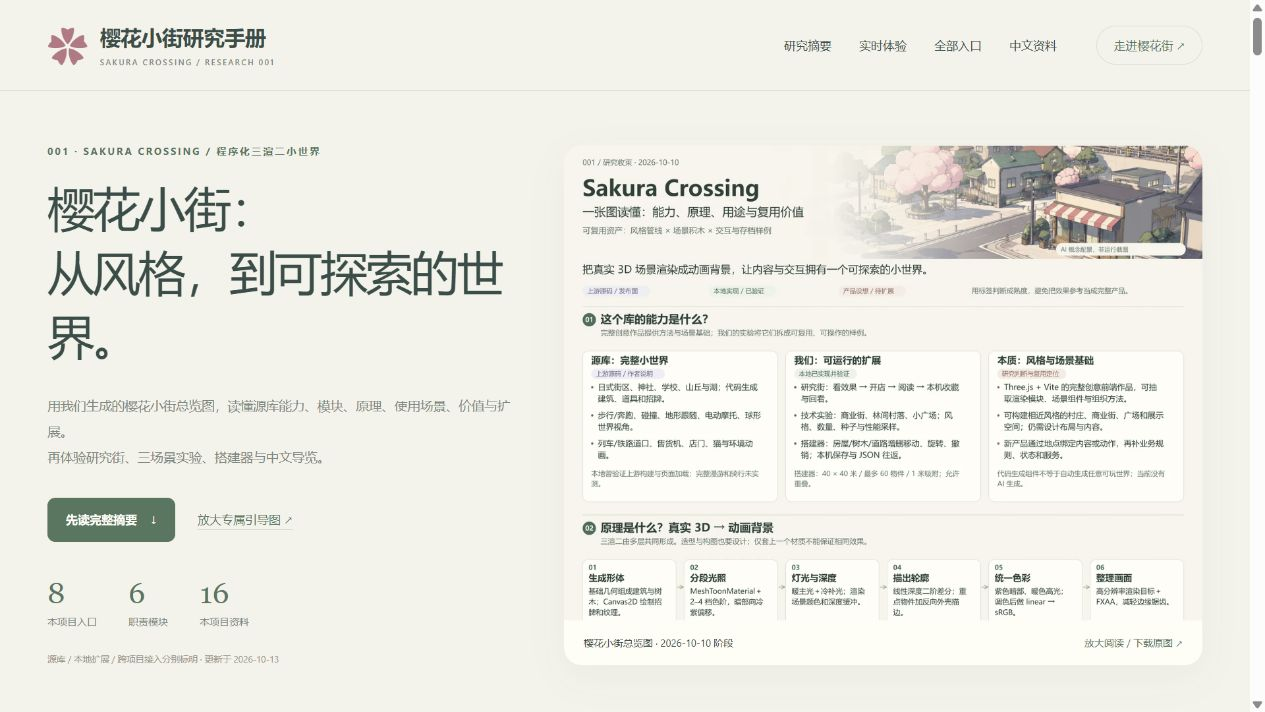
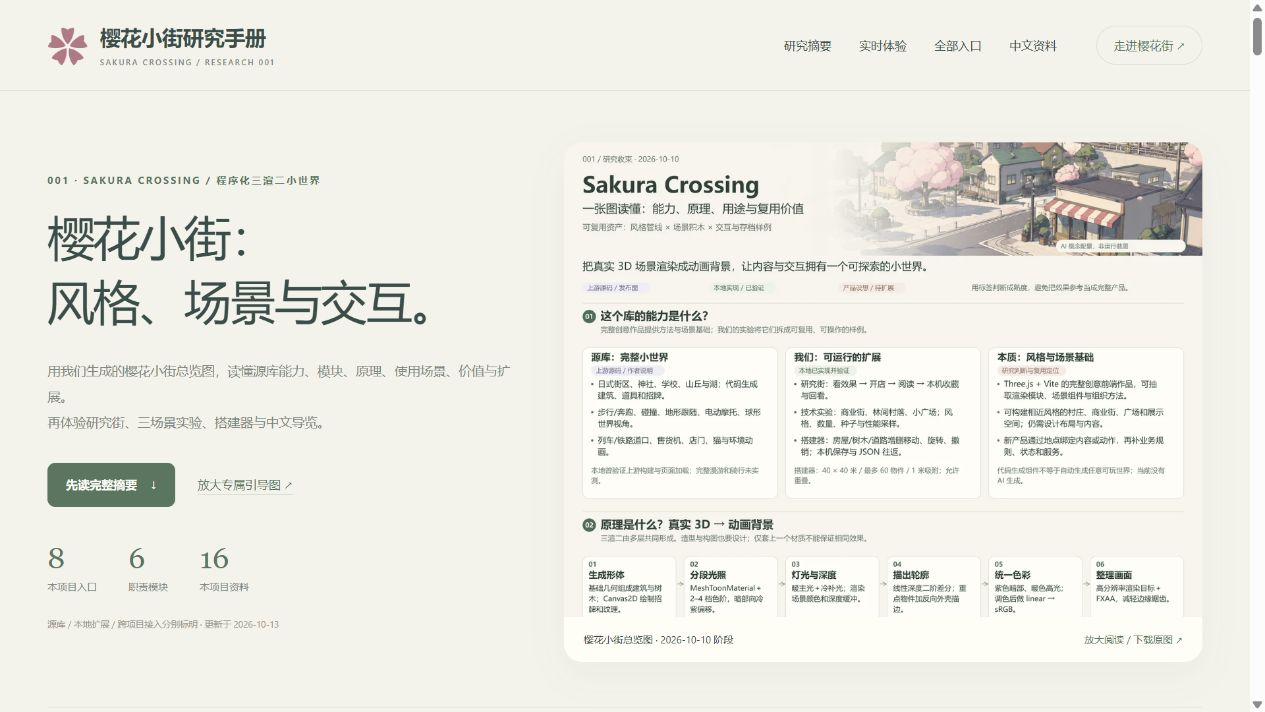
整理樱花研究首页标题换行

diff --git a/projects/001-sakura-crossing/web/research.html b/projects/001-sakura-crossing/web/research.html
@@ -11,7 +11,7 @@
   <a class="skip-link" href="#main">跳到研究内容</a>
   <header class="masthead"><a class="brand" href="./research.html"><span aria-hidden="true">✿</span><span>樱花小街研究手册<small>SAKURA CROSSING / RESEARCH 001</small></span></a><nav aria-label="快捷导航"><a href="#summary">研究摘要</a><a href="#experience">实时体验</a><a href="#directory">全部入口</a><a href="#library">中文资料</a></nav><a class="header-return" href="./index.html">走进樱花街 ↗</a></header>
   <main id="main">
-    <section class="hero" aria-labelledby="hero-title"><div class="hero-copy"><p class="eyebrow">001 · SAKURA CROSSING / 程序化三渲二小世界</p><h1 id="hero-title">樱花小街：<br />从风格，到可探索的世界。</h1><p class="hero-lead">用我们生成的樱花小街总览图，读懂源库能力、模块、原理、使用场景、价值与扩展。<br />再体验研究街、三场景实验、搭建器与中文导览。</p><div class="hero-actions"><a class="button primary" href="#summary">先读完整摘要 <span>↓</span></a><a class="text-link" href="./overview.html">放大专属引导图 ↗</a></div><div class="hero-facts"><span><b id="entry-count"></b>本项目入口</span><span><b>6</b>职责模块</span><span><b id="doc-count"></b>本项目资料</span></div><p class="hero-meta">源库 / 本地扩展 / 跨项目接入分别标明 · <span id="updated-at"></span></p></div><figure class="hero-picture guide-picture"><a href="./overview.html" aria-label="放大阅读樱花小街专属研究总览图"><img id="hero-image" alt="我们生成的 Sakura Crossing 樱花小街研究总览图" fetchpriority="high" /></a><figcaption><span>樱花小街总览图 · 2026-10-10 阶段</span><a href="./overview.html">放大阅读 / 下载原图 ↗</a></figcaption></figure></section>
+    <section class="hero" aria-labelledby="hero-title"><div class="hero-copy"><p class="eyebrow">001 · SAKURA CROSSING / 程序化三渲二小世界</p><h1 id="hero-title">樱花小街：<br />风格、场景与交互。</h1><p class="hero-lead">用我们生成的樱花小街总览图，读懂源库能力、模块、原理、使用场景、价值与扩展。<br />再体验研究街、三场景实验、搭建器与中文导览。</p><div class="hero-actions"><a class="button primary" href="#summary">先读完整摘要 <span>↓</span></a><a class="text-link" href="./overview.html">放大专属引导图 ↗</a></div><div class="hero-facts"><span><b id="entry-count"></b>本项目入口</span><span><b>6</b>职责模块</span><span><b id="doc-count"></b>本项目资料</span></div><p class="hero-meta">源库 / 本地扩展 / 跨项目接入分别标明 · <span id="updated-at"></span></p></div><figure class="hero-picture guide-picture"><a href="./overview.html" aria-label="放大阅读樱花小街专属研究总览图"><img id="hero-image" alt="我们生成的 Sakura Crossing 樱花小街研究总览图" fetchpriority="high" /></a><figcaption><span>樱花小街总览图 · 2026-10-10 阶段</span><a href="./overview.html">放大阅读 / 下载原图 ↗</a></figcaption></figure></section>
     <nav class="chapter-nav" aria-label="研究章节"><a href="#summary">00 完整摘要</a><a href="#effects">01 看变化</a><a href="#experience">02 亲手体验</a><a href="#directory">03 找入口</a><a href="#principles">04 拆原理</a><a href="#reuse">05 带走能力</a><a href="#value">06 用到哪里</a><a href="#evidence">07 看证据</a><a href="#library">08 查资料</a></nav>
     <section class="chapter executive-chapter" id="summary" aria-labelledby="summary-title"><div class="section-heading"><div><p class="eyebrow">00 / THE COMPLETE UNDERSTANDING</p><h2 id="summary-title">六组完整摘要，理解樱花小街。</h2></div><p>来源能力、本地实现与未来设想分开说明。<br />专属图保留早期阶段，正文补充后续扩展。</p></div><div class="summary-grid" id="executive-summary"></div><p class="publication-note" id="publication-note"></p></section><section class="conclusion"><span>我们的理解</span><p id="conclusion"></p><a class="text-link" href="#reuse">查看能力怎样搬到另一个项目 ↓</a></section>
     <section class="chapter" id="effects" aria-labelledby="effects-title"><div class="section-heading"><div><p class="eyebrow">01 / OBSERVE THE DIFFERENCE</p><h2 id="effects-title">把每一层变化，看清楚。</h2></div><p>先用实际截图对照，再进实时场景切换。<br />拖动分隔线，比较效果前后。</p></div><div class="compare-layout"><div class="compare-main"><div id="compare-tabs" class="segmented" role="group" aria-label="效果对照主题"></div><details class="related-details"><summary>012 效果参考（另一个项目）</summary><div id="related-compare-tabs" class="segmented" role="group" aria-label="跨项目效果参考"></div></details><div id="compare-stage" class="compare-stage"><img id="compare-before" alt="" /><div class="compare-after"><img id="compare-after" alt="" /></div><div class="compare-divider" aria-hidden="true"><span>↔</span></div><span class="image-label before" id="before-label"></span><span class="image-label after" id="after-label"></span><input id="compare-range" type="range" min="0" max="100" value="50" aria-label="效果对照分隔位置" /></div><div class="compare-foot"><span id="compare-kind"></span><output id="compare-output" for="compare-range">分隔位置 50%</output></div></div><aside class="compare-note"><p class="eyebrow" id="compare-number"></p><h3 id="compare-title"></h3><p id="compare-text"></p><button class="text-link" id="compare-principle">展开对应原理 ↓</button><a class="button" id="compare-entry">进入对应实时体验 ↗</a><p class="fine-note">截图来自本机实际运行；动画帧会变化。标为不同截图帧的对照，适合认识总体效果。</p></aside></div></section>
